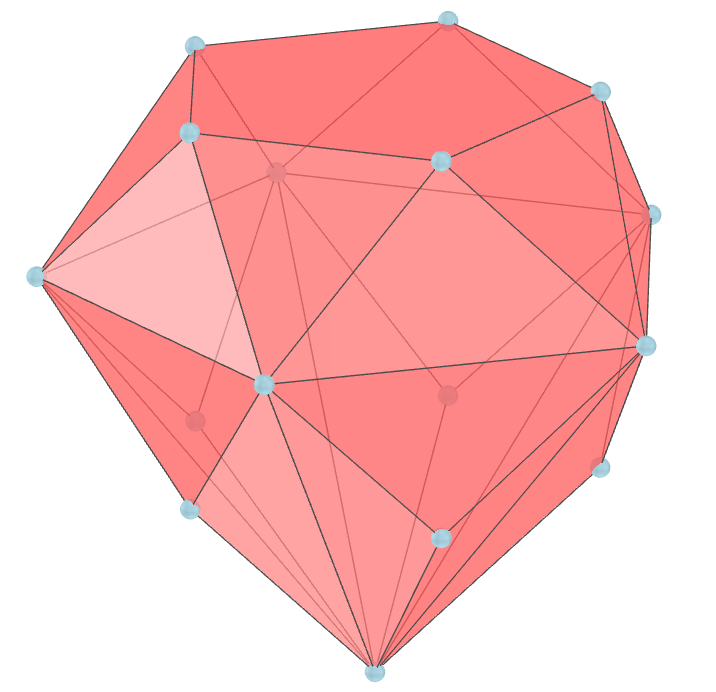
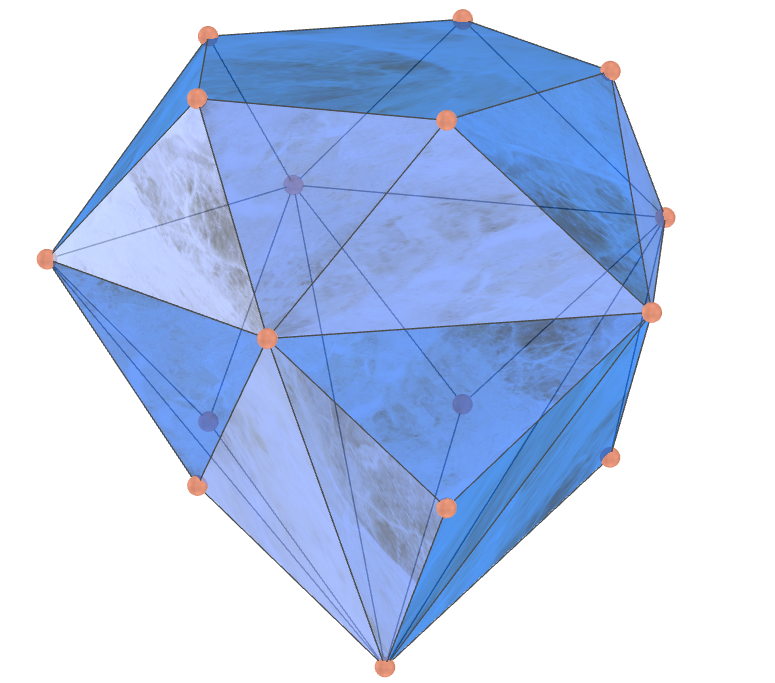
update

diff --git a/diamonds/vr/PentagonalPrism.htm b/diamonds/vr/PentagonalPrism.htm
@@ -1,0 +1,61 @@
+<html>
+  <head>
+    <title>Diamond polyhedra</title>
+	<link rel="icon" type="image/png" href="salas/imagens/icone.png">
+	<script src="https://aframe.io/releases/1.3.0/aframe.min.js"></script>
+	<script src="https://unpkg.com/aframe-orbit-controls@1.3.0/dist/aframe-orbit-controls.min.js"></script>
+	<link href="https://fonts.googleapis.com/css?family=Lato" rel="stylesheet">
+	<script src="nomes.js"></script>
+	<link rel="stylesheet" href="nomes.css">
+  </head>
+  <body>
+<div style='color:#fada91; position: fixed; bottom: 1vh; left:1vw; width:100%; z-index: 1; font-family: Calibri; font-size:3vh; font-weight:bold; text-shadow:1px 1px 1px royalblue;'>paulohscwb@gmail.com <br> &copy; 2023 Paulo Henrique Siqueira</div>
+    <a-scene renderer="logarithmicDepthBuffer: true; colorManagement: true;">
+		<a-assets>
+			<a-mixin id="mtl0" material="opacity: 0.7; metalness:0.3; roughness:0.9;"></a-mixin>
+			<a-mixin id="mtl8" material="color: #86B404;"></a-mixin>
+			<a-mixin id="mtl9" material="color: #F79F81;"></a-mixin>
+			<a-mixin id="mtl0p" material="opacity: 0.2; roughness: 0.9; metalness: 0.3;"></a-mixin>
+			<a-mixin id="texto" text="color: #4d4d4d; align:center;"></a-mixin>
+			<a-mixin id="luz" light="type: directional; color: white; intensity:0.4"></a-mixin>
+			<a-mixin id="esfera" mixin="mtl9" geometry="radius: 0.025;" material="metalness:0.5; roughness:0.6;">
+			<a-asset-item id="material" src="outros/solidos.mtl"></a-asset-item>
+		</a-assets>
+				
+		<a-entity rotation="-90 0 0" position="0 2 0" scale="5.5 5.5 5.5">
+			<a-obj-model id="fc" src="outros/PentagonalPrism.obj" mtl="#material" scale="0.998 0.998 0.998"></a-obj-model>
+			<a-obj-model id="ar" src="outros/PentagonalPrismL.obj" mtl="#material"></a-obj-model>
+			<a-sphere mixin='esfera' position='0.80902 0.26287 -0.175'></a-sphere>
+			<a-sphere mixin='esfera' position='-0.4045 0.1314 0.175'></a-sphere>
+			<a-sphere mixin='esfera' position='-0.80902 0.26287 -0.175'></a-sphere>
+			<a-sphere mixin='esfera' position='0.25 -0.3441 0.175'></a-sphere>
+			<a-sphere mixin='esfera' position='0.5 -0.68819 -0.175'></a-sphere>
+			<a-sphere mixin='esfera' position='-0.25 -0.3441 0.175'></a-sphere>
+			<a-sphere mixin='esfera' position='-0.5 -0.68819 -0.175'></a-sphere>
+			<a-sphere mixin='esfera' position='0.0 0.4253 0.175'></a-sphere>
+			<a-sphere mixin='esfera' position='0.0 0.85065 -0.175'></a-sphere>
+			<a-sphere mixin='esfera' position='0.4045 0.1314 0.175'></a-sphere>
+			<a-sphere mixin='esfera' position='0 0 -1'></a-sphere>
+		</a-entity>
+		
+		<a-entity camera="fov:1; near:1;" orbit-controls="target: 0 0 0; maxPolarAngle: 180; minDistance: 0.5; initialPosition: 200 150 700; maxDistance: 1500;"></a-entity>
+	  
+		<a-light type="ambient" color="white" intensity="0.6"></a-light>
+		<a-light mixin="luz" position="-3 0 0"></a-light>
+		<a-light mixin="luz" position="3 0 0"></a-light>
+		<a-light mixin="luz" position="0 3 0"></a-light>
+		<a-light mixin="luz" position="0 -3 0"></a-light>
+		<a-light mixin="luz" position="0 0 3"></a-light>
+		<a-light mixin="luz" position="0 0 -3"></a-light>
+
+		<a-sky color="aliceblue"></a-sky>
+    </a-scene>
+	<div class="box">
+		<span class="titulo">Diamond truncated square pyramid</span>
+		<br><span class="titulo">Pirâmide quadrada truncada de diamante</span>
+		<hr><input type="checkbox" id="faces" checked onclick="mfaces()">faces&nbsp;&nbsp;&nbsp;  
+		<input type="checkbox" id="arestas" checked onclick="marestas()">edges&nbsp;&nbsp;&nbsp; 
+		<input type="checkbox" id="vertices" checked onclick="mvertices()">vertices
+	</div>
+  </body>
+</html>

diff --git a/diamonds/pt-br/README.md b/diamonds/pt-br/README.md
@@ -199,6 +199,12 @@ com qualquer navegador com um dispositivo de webcam (smartphone, tablet ou noteb
  <br><br><b>Faces:</b> 18 triângulos, 3 quadrados e 1 hexágono | <b>Arestas:</b> 36 | <b>Vértices:</b> 15. <a href="https://polytope.miraheze.org/wiki/Triangular_hebesphenorotunda" target="_blank">Mais sobre...</a>
  <br><a href="../ra.html" class="raAR" title="Realidade aumentada" target="_blank"></a>
 <hr>
+<h4>27. Pirâmide pentagonal truncada de diamante</h4>
+<a href="../vr/PentagonalPrism.htm" target="_blank" title="modelo 3D" class="fotoA"><img src="../ar/106A.png" class="foto" alt="Pirâmide pentagonal truncada de diamante"></a><img src="../ar/106.png" class="qr">
+ <br><br>Considere uma hebesfenorotunda triangular modificada, desconsiderando as faces pentagonais e a face triangular que está unida apenas com os vértices dos pentágonos. O sólido obtido com a união de uma pirâmide reta de base eneagonal com as demais faces da hebesfenorotunda triangular modificada é uma hebesfenorotunda triangular truncada de diamante. 
+ <br><br><b>Faces:</b> 18 triângulos, 3 quadrados e 1 hexágono | <b>Arestas:</b> 36 | <b>Vértices:</b> 15. <a href="https://polytope.miraheze.org/wiki/Triangular_hebesphenorotunda" target="_blank">Mais sobre...</a>
+ <br><a href="../ra.html" class="raAR" title="Realidade aumentada" target="_blank"></a>
+<hr>
 <p class="topop"><a href="#p1" class="topo">voltar ao topo</a></p>
 <hr>
 

diff --git a/diamonds/README.md b/diamonds/README.md
@@ -199,6 +199,12 @@ with any browser with a webcam device (smartphone, tablet or notebook).
  <br><br><b>Faces:</b> 18 triangles, 3 squares and 1 hexagon | <b>Edges:</b> 36 | <b>Vertices:</b> 15. <a href="https://polytope.miraheze.org/wiki/Triangular_hebesphenorotunda" target="_blank">More...</a>
  <br><a href="ra.html" class="raAR" title="Augmented reality" target="_blank"></a>
 <hr>
+<h4>27. Diamond truncated pentagonal pyramid</h4>
+<a href="vr/PentagonalPrism.htm" target="_blank" title="3D model" class="fotoA"><img src="ar/106A.png" class="foto" alt="Diamond truncated pentagonal pyramid"></a><img src="ar/106.png" class="qr">
+ <br><br>Consider a modified triangular hebesphenorotunda, disregarding the pentagonal faces and the triangular face that is joined only with the pentagons vertices. The solid obtained by joining a right pyramid with an enneagonal base with the other faces of the modified triangular hebesphenorotunda is a diamond truncated triangular hebesphenorotunda.
+ <br><br><b>Faces:</b> 18 triangles, 3 squares and 1 hexagon | <b>Edges:</b> 36 | <b>Vertices:</b> 15. <a href="https://polytope.miraheze.org/wiki/Triangular_hebesphenorotunda" target="_blank">More...</a>
+ <br><a href="ra.html" class="raAR" title="Augmented reality" target="_blank"></a>
+<hr>
 <p class="topop"><a href="#p1" class="topo">back to top</a></p>
 <hr>
 
